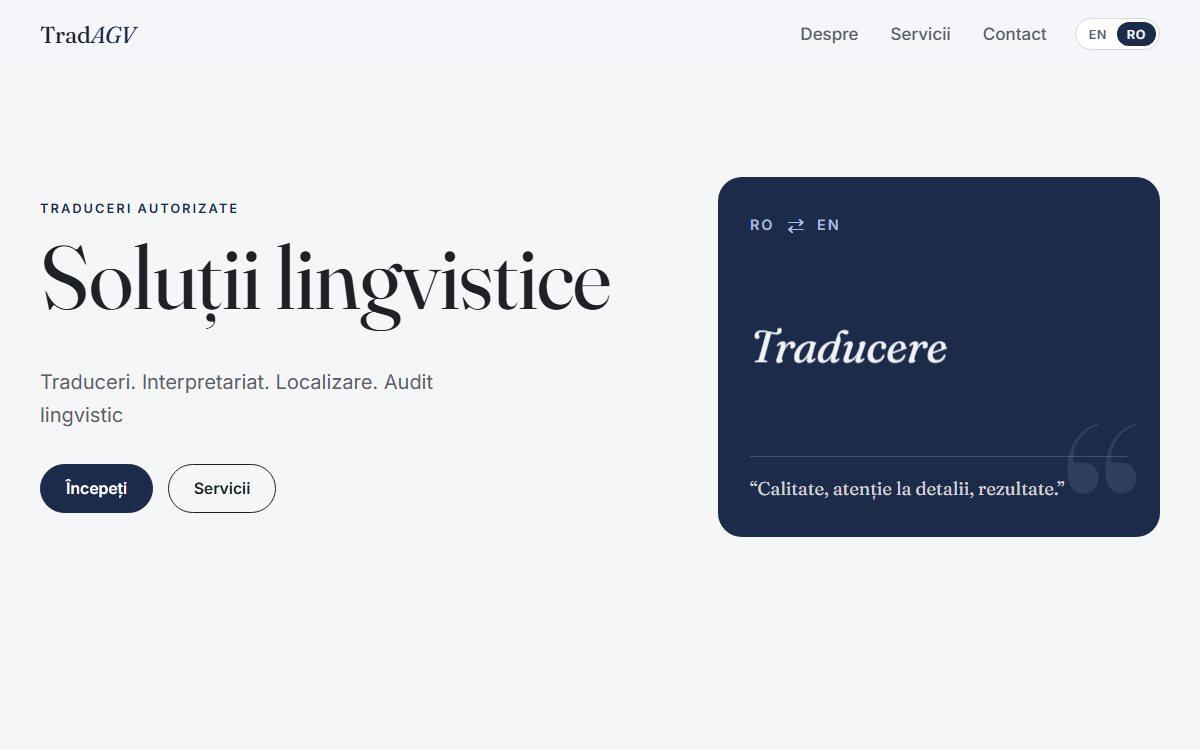
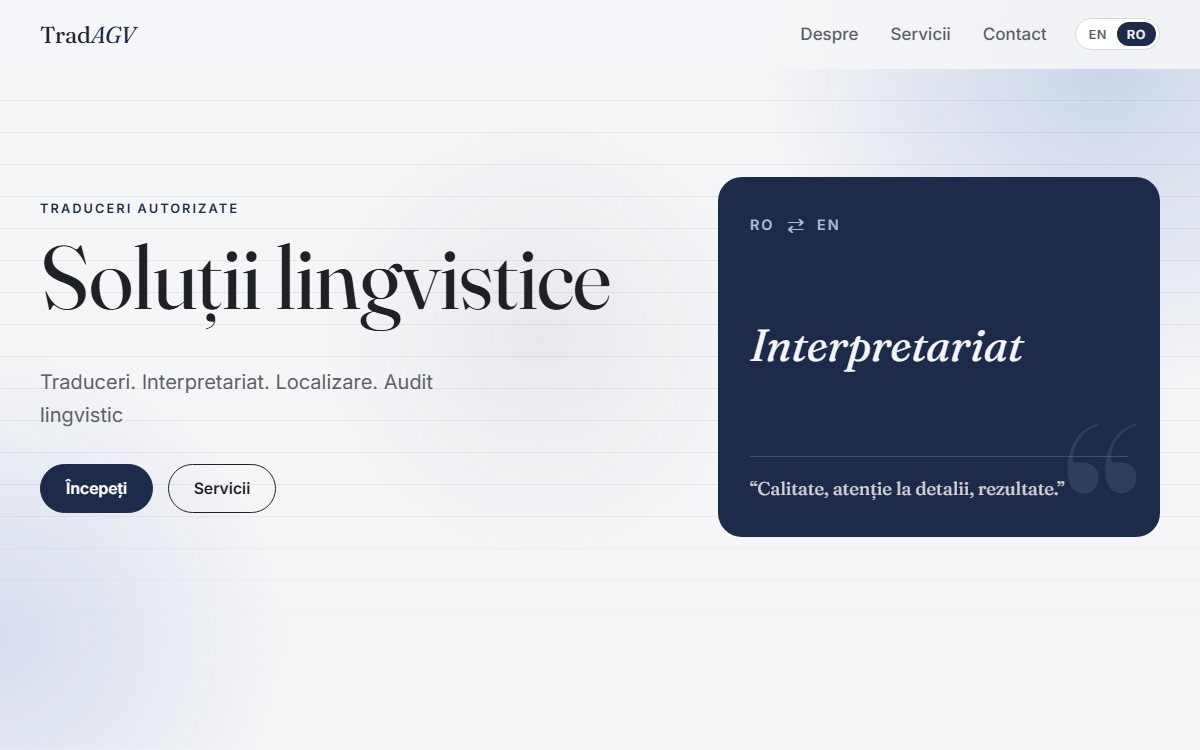
Refresh TradAGV portfolio screenshot

diff --git a/en/index.html b/en/index.html
@@ -170,7 +170,7 @@
             <div class="work__meta"><h3>Maria Youssef</h3><p>Psychologist · Services, workshops &amp; booking</p></div>
           </a>
           <a class="work__item reveal" data-cat="services" href="https://tradagv.github.io/tradagv/" target="_blank" rel="noopener">
-            <div class="work__img"><img src="../img/tradagv.jpg" alt="TradAGV authorized translations website" loading="lazy"></div>
+            <div class="work__img"><img src="../img/tradagv.jpg?v=2" alt="TradAGV authorized translations website" loading="lazy"></div>
             <div class="work__meta"><h3>TradAGV</h3><p>Authorized translations · Bilingual RO / EN site</p></div>
           </a>
           <a class="work__item reveal" data-cat="services" href="https://example.com" target="_blank" rel="noopener">

diff --git a/index.html b/index.html
@@ -175,7 +175,7 @@
             <div class="work__meta"><h3>Maria Youssef</h3><p>Psiholog · Servicii, ateliere și programări</p></div>
           </a>
           <a class="work__item reveal" data-cat="services" href="https://tradagv.github.io/tradagv/" target="_blank" rel="noopener">
-            <div class="work__img"><img src="img/tradagv.jpg" alt="Site-ul TradAGV, traduceri autorizate" loading="lazy"></div>
+            <div class="work__img"><img src="img/tradagv.jpg?v=2" alt="Site-ul TradAGV, traduceri autorizate" loading="lazy"></div>
             <div class="work__meta"><h3>TradAGV</h3><p>Traduceri autorizate · Site bilingv RO / EN</p></div>
           </a>
           <a class="work__item reveal" data-cat="services" href="https://example.com" target="_blank" rel="noopener">
